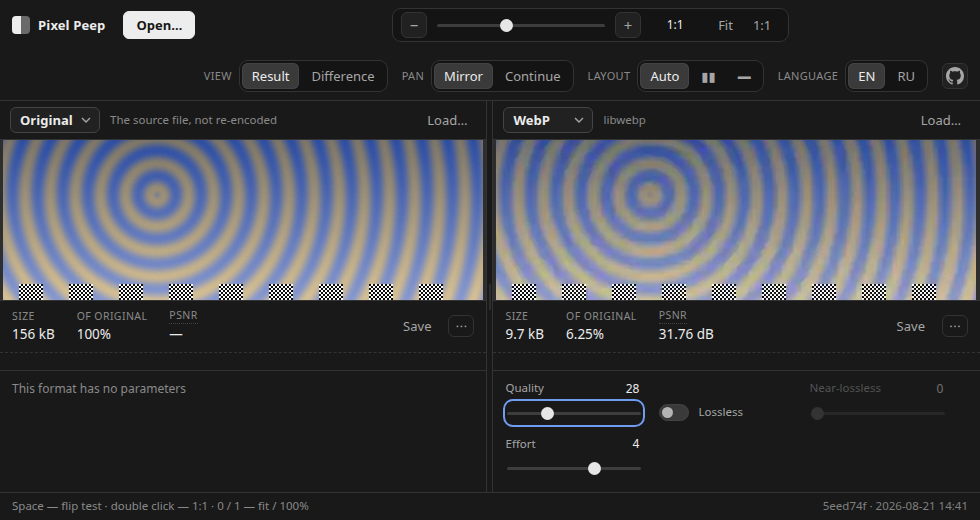
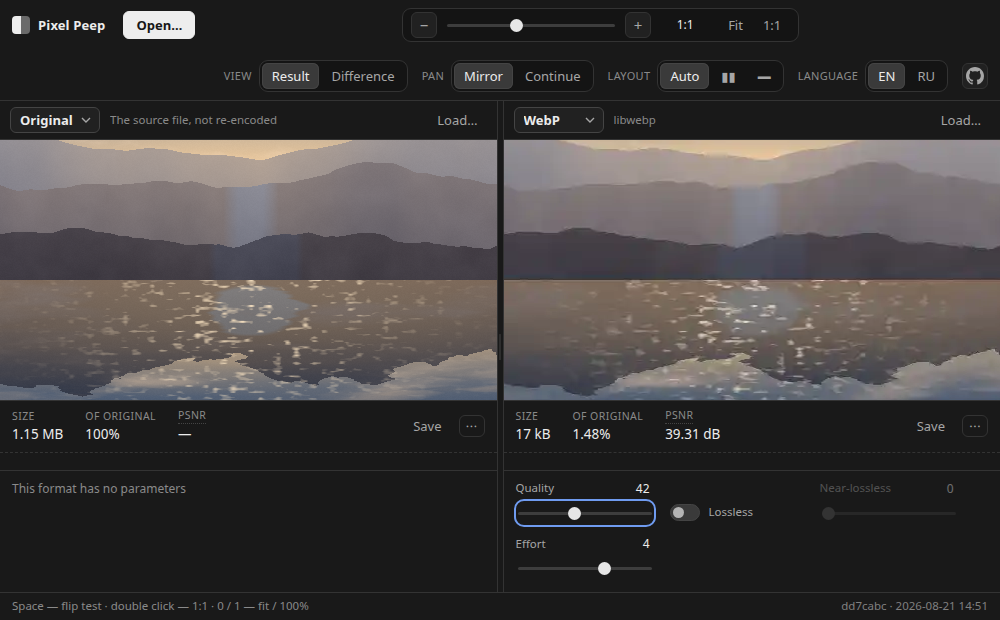
Пейзаж на скриншоте вместо тестовой мишени
Концентрические круги хорошо показывают артефакты и совершенно
не показывают, зачем инструмент нужен. Кадр сгенерирован
процедурно, а не взят из фотостока: озеро на закате даёт ровно
те три вещи, на которых кодеки спотыкаются по-разному —
градиент неба, резкие силуэты гряды и мелкие блики на воде.

Снимок сделан на 1:1, а не «вписать»: так видно и что это
фотография, и что WebP на 42 сделал с небом. 1.15 МБ → 17 кБ.

diff --git a/README.md b/README.md
@@ -11,7 +11,7 @@ differently, the zoom is synchronised and exact, and holding the space bar flips
 Nothing is uploaded. The files never leave the browser: every encode runs locally in a wasm worker,
 which also means it works offline and on photos you would not send to a stranger's server.
 
-![Two panels comparing the original against WebP, with size, ratio and PSNR under each](docs/screenshot.png)
+![Two panels at 1:1 showing the same lakeside sunset: the original on the left at 1.15 MB, WebP quality 42 on the right at 17 kB, with size, ratio and PSNR under each](docs/screenshot.png)
 
 ---
 
